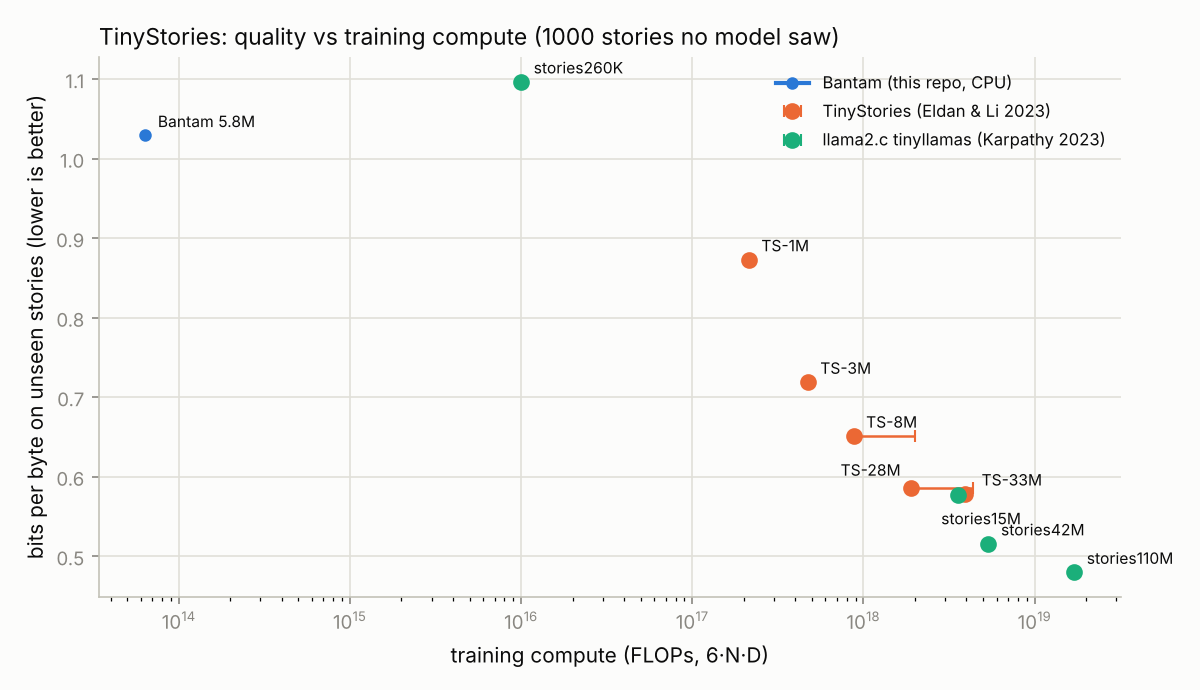
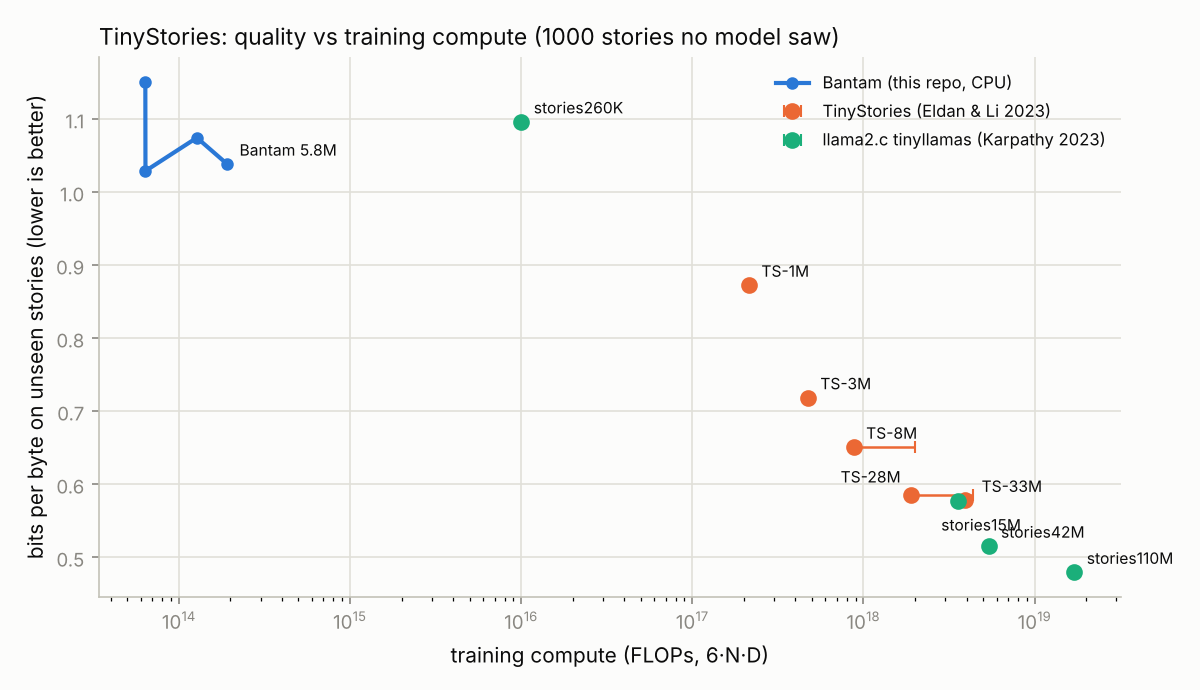
memory estimator: pick d_model from the parameter count by default
Claude-Session: https://claude.ai/code/session_01UeMgApgBFtFxfTdxjakLYn

diff --git a/zoomtrain/zoomtrain/memory.py b/zoomtrain/zoomtrain/memory.py
@@ -39,15 +39,26 @@ import argparse
 GB = 1e9
 
 
+def default_width(params):
+    """A conventional d_model for a parameter count (GPT-2/Llama-style aspect ratios)."""
+    for limit, d in ((2e7, 384), (6e7, 512), (2e8, 768), (5e8, 1024), (1.5e9, 2048),
+                     (4e9, 3072), (1e10, 4096), (2e10, 5120)):
+        if params <= limit:
+            return d
+    return 8192
+
+
 def model_dims(params, d, vocab):
     """Layers for a target parameter count: 12*L*d^2 + 2*V*d (untied embeddings)."""
+    d = d or default_width(params)
     L = max(1, round((params - 2 * vocab * d) / (12 * d * d)))
     return L, 12 * L * d * d + 2 * vocab * d
 
 
-def scoreboard(params=5e9, d=4096, vocab=32000, seq=2048, gpu_gb=96.0, peak_tflops=503.8,
+def scoreboard(params=5e9, d=0, vocab=32000, seq=2048, gpu_gb=96.0, peak_tflops=503.8,
                mfu=0.40, tokens=1e11, fp8_speedup=1.20, muon_flops=0.52, power_tput=0.95,
                overhead_gb=3.0, hidden_frac=None, act_factor=1.0):
+    d = d or default_width(params)
     L, N = model_dims(params, d, vocab)
     if hidden_frac is None:
         hidden_frac = 12 * L * d * d / N
@@ -88,7 +99,7 @@ def scoreboard(params=5e9, d=4096, vocab=32000, seq=2048, gpu_gb=96.0, peak_tflo
     rows.append(row("5. + 450 W power cap (75 % power)", 2, 2, muon_state, False, True,
                     tok_mult=muon_flops, speed=fp8_speedup * power_tput,
                     note=f"x{power_tput:.2f} throughput, 25 % less power"))
-    return {"layers": L, "params": N, "rows": rows}
+    return {"layers": L, "params": N, "d": d, "rows": rows}
 
 
 def storage_table(N, tokens, bits_per_token=5.97):
@@ -133,7 +144,7 @@ def fmt(sb, tokens, markdown=False):
 def main():
     ap = argparse.ArgumentParser()
     ap.add_argument("--params", type=float, default=5e9)
-    ap.add_argument("--d", type=int, default=4096)
+    ap.add_argument("--d", type=int, default=0, help="d_model (0 = pick from --params)")
     ap.add_argument("--vocab", type=int, default=32000)
     ap.add_argument("--seq", type=int, default=2048)
     ap.add_argument("--gpu_gb", type=float, default=96)
